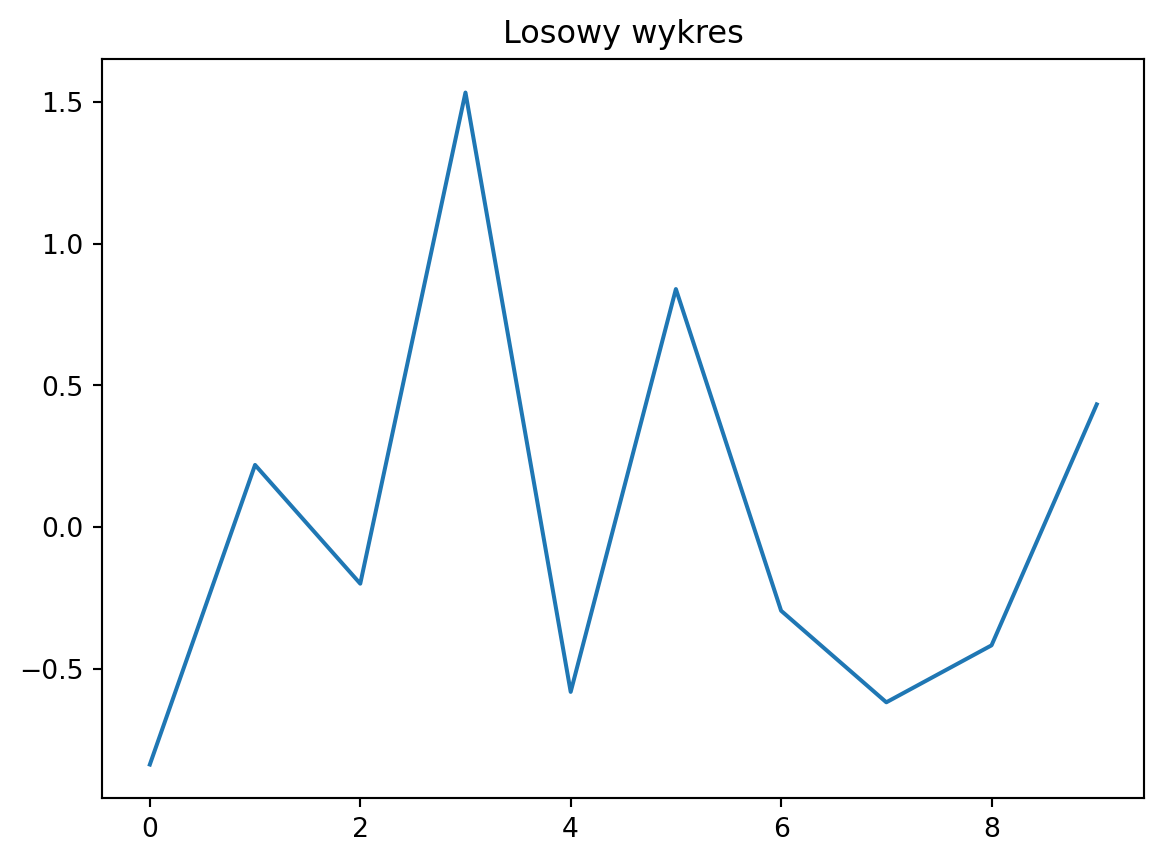
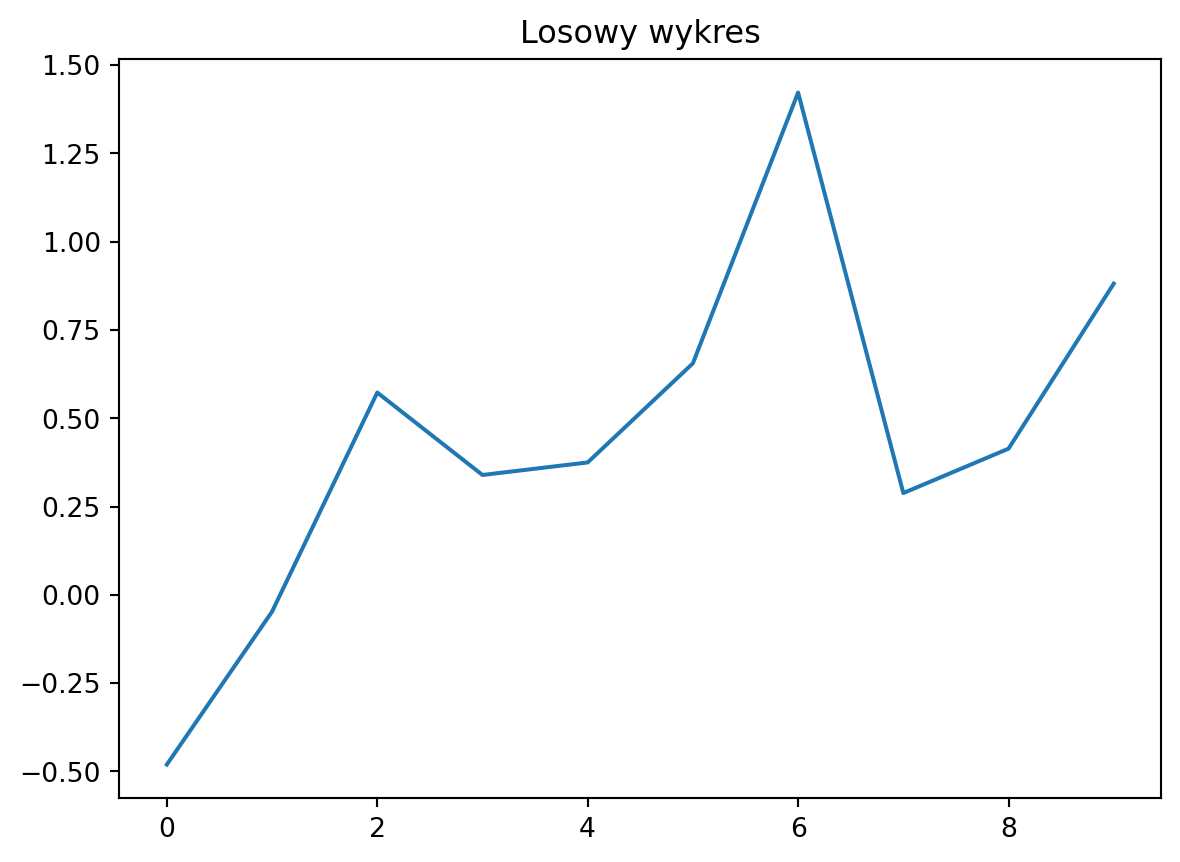
mods

diff --git a/docs/posts/python_w_analizie/python_w_analizie.html b/docs/posts/python_w_analizie/python_w_analizie.html
@@ -32,7 +32,7 @@ ul.task-list li input[type="checkbox"] {
 <script src="../../site_libs/quarto-search/fuse.min.js"></script>
 <script src="../../site_libs/quarto-search/quarto-search.js"></script>
 <meta name="quarto:offset" content="../../">
-<link href="../../favicon.png" rel="icon" type="image/png">
+<link href="../../favicon_cropped.png" rel="icon" type="image/png">
 <script src="../../site_libs/quarto-html/quarto.js" type="module"></script>
 <script src="../../site_libs/quarto-html/tabsets/tabsets.js" type="module"></script>
 <script src="../../site_libs/quarto-html/axe/axe-check.js" type="module"></script>
@@ -175,7 +175,7 @@ ul.task-list li input[type="checkbox"] {
 <section id="wprowadzenie" class="level2">
 <h2 class="anchored" data-anchor-id="wprowadzenie">Wprowadzenie</h2>
 <p>W tym poście pokażę, jak wygenerować dane w Pythonie i automatycznie przedstawić je na wykresie. Na koniec wygeneruję kilka standardowych kodów.</p>
-<div id="abe79d3b" class="cell" data-execution_count="1">
+<div id="4f6df3aa" class="cell" data-execution_count="1">
 <div class="cell-output cell-output-display" data-execution_count="1">
 <div>
 
@@ -192,52 +192,52 @@ ul.task-list li input[type="checkbox"] {
 <tr class="odd">
 <th data-quarto-table-cell-role="th">0</th>
 <td>0</td>
-<td>-0.837533</td>
+<td>-0.480280</td>
 </tr>
 <tr class="even">
 <th data-quarto-table-cell-role="th">1</th>
 <td>1</td>
-<td>0.219380</td>
+<td>-0.047484</td>
 </tr>
 <tr class="odd">
 <th data-quarto-table-cell-role="th">2</th>
 <td>2</td>
-<td>-0.199481</td>
+<td>0.572863</td>
 </tr>
 <tr class="even">
 <th data-quarto-table-cell-role="th">3</th>
 <td>3</td>
-<td>1.533195</td>
+<td>0.339510</td>
 </tr>
 <tr class="odd">
 <th data-quarto-table-cell-role="th">4</th>
 <td>4</td>
-<td>-0.581285</td>
+<td>0.374993</td>
 </tr>
 <tr class="even">
 <th data-quarto-table-cell-role="th">5</th>
 <td>5</td>
-<td>0.839899</td>
+<td>0.655652</td>
 </tr>
 <tr class="odd">
 <th data-quarto-table-cell-role="th">6</th>
 <td>6</td>
-<td>-0.294908</td>
+<td>1.422291</td>
 </tr>
 <tr class="even">
 <th data-quarto-table-cell-role="th">7</th>
 <td>7</td>
-<td>-0.617992</td>
+<td>0.288360</td>
 </tr>
 <tr class="odd">
 <th data-quarto-table-cell-role="th">8</th>
 <td>8</td>
-<td>-0.417044</td>
+<td>0.413981</td>
 </tr>
 <tr class="even">
 <th data-quarto-table-cell-role="th">9</th>
 <td>9</td>
-<td>0.433034</td>
+<td>0.881223</td>
 </tr>
 </tbody>
 </table>
@@ -245,16 +245,16 @@ ul.task-list li input[type="checkbox"] {
 </div>
 </div>
 </div>
-<div id="56017650" class="cell" data-execution_count="2">
+<div id="5c9029b6" class="cell" data-execution_count="2">
 <div class="cell-output cell-output-display">
 <div>
 <figure class="figure">
-<p><img src="python_w_analizie_files/figure-html/cell-3-output-1.png" width="582" height="431" class="figure-img"></p>
+<p><img src="python_w_analizie_files/figure-html/cell-3-output-1.png" width="590" height="431" class="figure-img"></p>
 </figure>
 </div>
 </div>
 </div>
-<div id="f16f9561" class="cell" data-execution_count="3">
+<div id="f9aa91c4" class="cell" data-execution_count="3">
 <div class="cell-output cell-output-display" data-execution_count="3">
 <div>
 
@@ -276,37 +276,37 @@ ul.task-list li input[type="checkbox"] {
 <tr class="even">
 <th data-quarto-table-cell-role="th">mean</th>
 <td>4.50000</td>
-<td>0.007727</td>
+<td>0.442111</td>
 </tr>
 <tr class="odd">
 <th data-quarto-table-cell-role="th">std</th>
 <td>3.02765</td>
-<td>0.746333</td>
+<td>0.510581</td>
 </tr>
 <tr class="even">
 <th data-quarto-table-cell-role="th">min</th>
 <td>0.00000</td>
-<td>-0.837533</td>
+<td>-0.480280</td>
 </tr>
 <tr class="odd">
 <th data-quarto-table-cell-role="th">25%</th>
 <td>2.25000</td>
-<td>-0.540225</td>
+<td>0.301147</td>
 </tr>
 <tr class="even">
 <th data-quarto-table-cell-role="th">50%</th>
 <td>4.50000</td>
-<td>-0.247195</td>
+<td>0.394487</td>
 </tr>
 <tr class="odd">
 <th data-quarto-table-cell-role="th">75%</th>
 <td>6.75000</td>
-<td>0.379621</td>
+<td>0.634955</td>
 </tr>
 <tr class="even">
 <th data-quarto-table-cell-role="th">max</th>
 <td>9.00000</td>
-<td>1.533195</td>
+<td>1.422291</td>
 </tr>
 </tbody>
 </table>

diff --git a/docs/styles.css b/docs/styles.css
@@ -1,10 +1,69 @@
-/* css styles */
-/* Justowanie tekstu w całej stronie */
+/* ================================================== */
+/* GLOBALNE USTAWIENIA TEKSTU                        */
+/* ================================================== */
 body {
-  text-align: justify;
+  text-align: justify;       /* justowanie całego tekstu */
+  line-height: 1.6;          /* poprawa czytelności */
+  max-width: 800px;           /* ograniczenie szerokości dla wygody czytania */
+  margin: 0 auto;             /* centrowanie całej zawartości strony */
+  padding: 1em;               /* trochę oddechu od krawędzi */
+  font-family: "Helvetica Neue", Helvetica, Arial, sans-serif;
 }
 
-/* Poprawa czytelności justowania */
-p {
-  hyphens: auto;
+p,
+li,
+blockquote,
+.listing-description {
+  text-align: justify;        /* justowanie akapitów i opisów w listingach */
+  hyphens: auto;              /* dzielenie wyrazów */
+  margin-bottom: 1em;
+}
+
+/* ------------------------- */
+/* WYŚRODKOWANIE ELEMENTÓW BLOKOWYCH */
+/* ------------------------- */
+img,
+figure,
+table,
+div.figure {
+  display: block;
+  margin-left: auto;
+  margin-right: auto;
+}
+
+/* Wykresy wewnątrz figure */
+figure img {
+  margin-left: auto;
+  margin-right: auto;
+}
+
+/* Wyśrodkowanie podpisów pod obrazami */
+figcaption {
+  text-align: center;
+  font-size: 0.9em;
+  color: #555;
+  margin-top: 0.5em;
+}
+
+/* ------------------------- */
+/* DODATKOWE ULEPSZENIA CZYTELNOŚCI */
+/* ------------------------- */
+ul, ol {
+  margin-left: 1.5em;
+  margin-bottom: 1em;
+}
+
+code, pre {
+  text-align: left;           /* kod nie jest justowany */
+  overflow-x: auto;
+}
+
+/* Linki */
+a {
+  color: #1a73e8;
+  text-decoration: none;
+}
+
+a:hover {
+  text-decoration: underline;
 }

diff --git a/docs/posts/post-with-code/index.html b/docs/posts/post-with-code/index.html
@@ -32,7 +32,7 @@ ul.task-list li input[type="checkbox"] {
 <script src="../../site_libs/quarto-search/fuse.min.js"></script>
 <script src="../../site_libs/quarto-search/quarto-search.js"></script>
 <meta name="quarto:offset" content="../../">
-<link href="../../favicon.png" rel="icon" type="image/png">
+<link href="../../favicon_cropped.png" rel="icon" type="image/png">
 <script src="../../site_libs/quarto-html/quarto.js" type="module"></script>
 <script src="../../site_libs/quarto-html/tabsets/tabsets.js" type="module"></script>
 <script src="../../site_libs/quarto-html/axe/axe-check.js" type="module"></script>

diff --git a/docs/posts/post_nr_1/index.html b/docs/posts/post_nr_1/index.html
@@ -32,7 +32,7 @@ ul.task-list li input[type="checkbox"] {
 <script src="../../site_libs/quarto-search/fuse.min.js"></script>
 <script src="../../site_libs/quarto-search/quarto-search.js"></script>
 <meta name="quarto:offset" content="../../">
-<link href="../../favicon.png" rel="icon" type="image/png">
+<link href="../../favicon_cropped.png" rel="icon" type="image/png">
 <script src="../../site_libs/quarto-html/quarto.js" type="module"></script>
 <script src="../../site_libs/quarto-html/tabsets/tabsets.js" type="module"></script>
 <script src="../../site_libs/quarto-html/axe/axe-check.js" type="module"></script>

diff --git a/docs/posts/welcome/index.html b/docs/posts/welcome/index.html
@@ -32,7 +32,7 @@ ul.task-list li input[type="checkbox"] {
 <script src="../../site_libs/quarto-search/fuse.min.js"></script>
 <script src="../../site_libs/quarto-search/quarto-search.js"></script>
 <meta name="quarto:offset" content="../../">
-<link href="../../favicon.png" rel="icon" type="image/png">
+<link href="../../favicon_cropped.png" rel="icon" type="image/png">
 <script src="../../site_libs/quarto-html/quarto.js" type="module"></script>
 <script src="../../site_libs/quarto-html/tabsets/tabsets.js" type="module"></script>
 <script src="../../site_libs/quarto-html/axe/axe-check.js" type="module"></script>

diff --git a/docs/about.html b/docs/about.html
@@ -30,7 +30,7 @@ ul.task-list li input[type="checkbox"] {
 <script src="site_libs/quarto-search/fuse.min.js"></script>
 <script src="site_libs/quarto-search/quarto-search.js"></script>
 <meta name="quarto:offset" content="./">
-<link href="./favicon.png" rel="icon" type="image/png">
+<link href="./favicon_cropped.png" rel="icon" type="image/png">
 <script src="site_libs/quarto-html/quarto.js" type="module"></script>
 <script src="site_libs/quarto-html/tabsets/tabsets.js" type="module"></script>
 <script src="site_libs/quarto-html/axe/axe-check.js" type="module"></script>

diff --git a/docs/index.html b/docs/index.html
@@ -30,7 +30,7 @@ ul.task-list li input[type="checkbox"] {
 <script src="site_libs/quarto-search/fuse.min.js"></script>
 <script src="site_libs/quarto-search/quarto-search.js"></script>
 <meta name="quarto:offset" content="./">
-<link href="./favicon.png" rel="icon" type="image/png">
+<link href="./favicon_cropped.png" rel="icon" type="image/png">
 <script src="site_libs/quarto-listing/list.min.js"></script>
 <script src="site_libs/quarto-listing/quarto-listing.js"></script>
 <script src="site_libs/quarto-html/quarto.js" type="module"></script>
